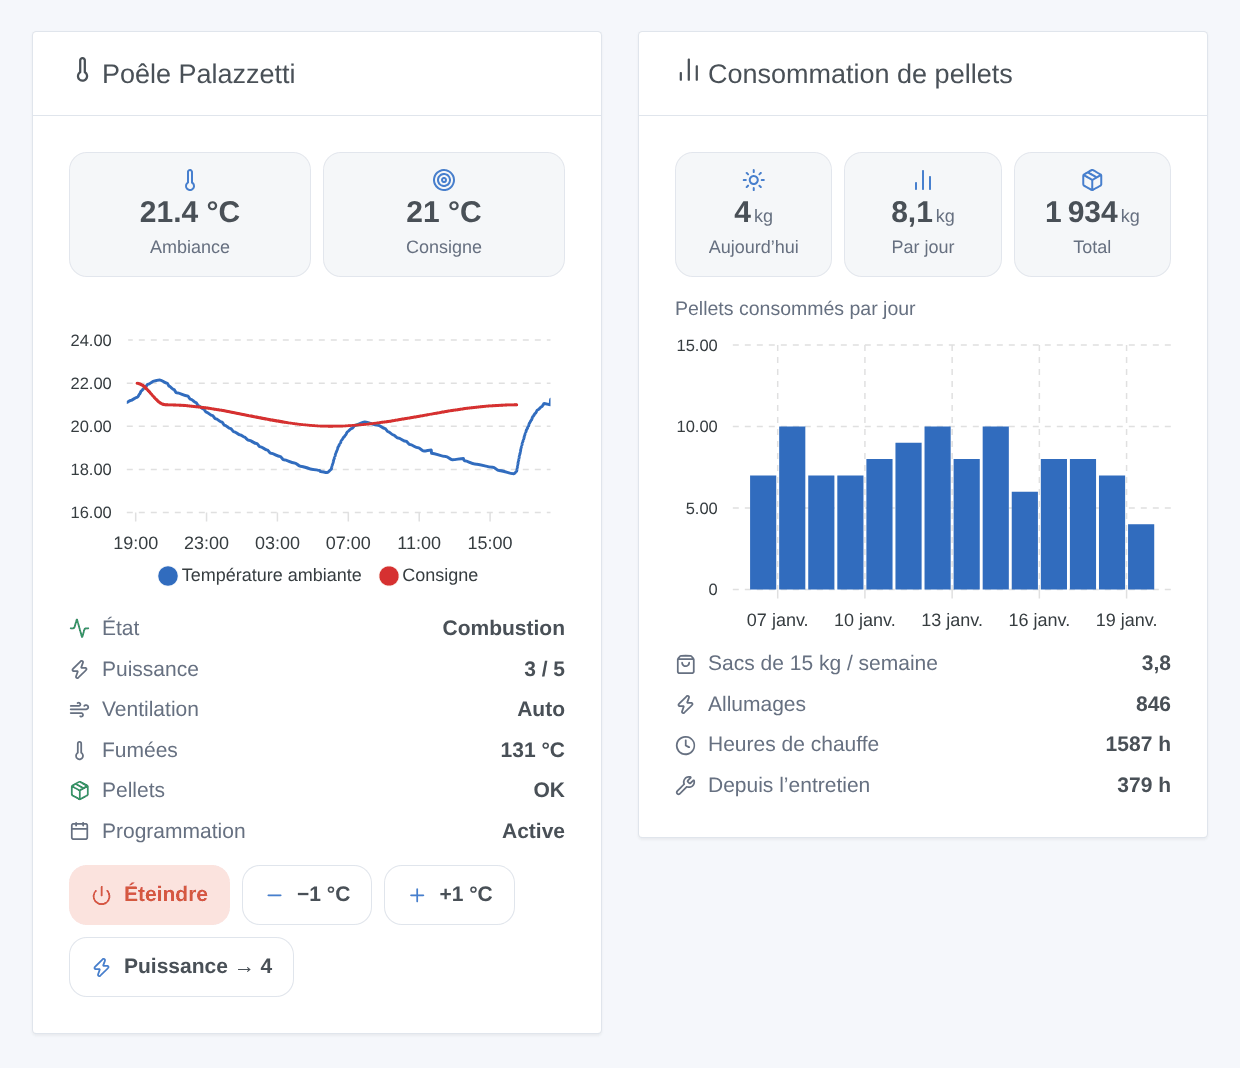
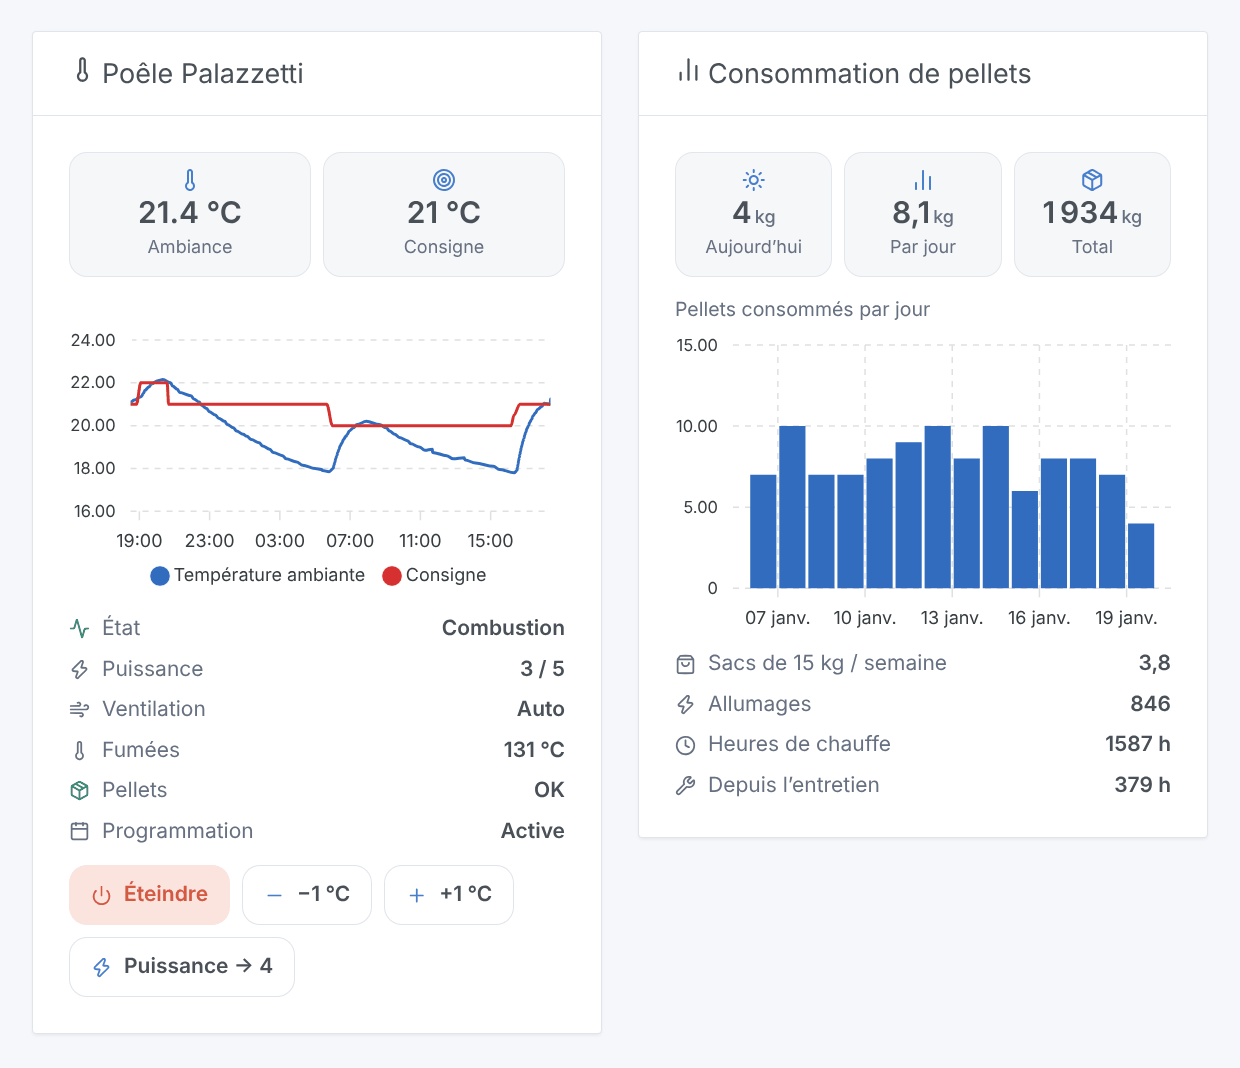
fix: the setpoint curve stays flat between two changes (#1)
Gladys keeps a point per published state and its line chart joins two
points with a straight slope: a setpoint published only on change, a
few times a day, was drawn as hours-long ramps. The setpoint is now
published again every 10 minutes even unchanged, so the line stays
flat. The widget illustrations simulate the same repeats.

Claude-Session: https://claude.ai/code/session_014nWwzxT57Sgjwa28YkMAqx

diff --git a/src/app.js b/src/app.js
@@ -14,7 +14,14 @@ import { logger } from '@gladysassistant/integration-sdk';
 import { INTERNAL_KEYS, normalizeConfig, normalizeLanguage, readLanguage } from './config.js';
 import { createManager } from './manager.js';
 import { createHistoryStore, dailyBurn } from './history.js';
-import { PARAMS, buildDevice, buildStates, idsOf, parseExternalId } from './device.js';
+import {
+  FEATURE_KEYS,
+  PARAMS,
+  buildDevice,
+  buildStates,
+  idsOf,
+  parseExternalId,
+} from './device.js';
 import {
   CommandError,
   clockCommand,
@@ -43,6 +50,10 @@ import { LANGUAGES, all, t, stateLabel, formatTemperature } from './i18n.js';
 const ACTIONS = { TEST_CONNECTION: 'test_connection', SYNC_CLOCK: 'sync_clock' };
 // A widget or a scene action reuses a read while it is this fresh.
 const FRESH_MS = 15000;
+// The setpoint is published again this often, even unchanged: Gladys keeps a
+// point per publication and its line chart joins two points with a straight
+// slope, so a setpoint changed twice a day would draw hours-long ramps.
+const SETPOINT_REPEAT_MS = 10 * 60 * 1000;
 const DATA_DIR = process.env.DATA_DIR || '/data';
 
 /**
@@ -51,6 +62,7 @@ const DATA_DIR = process.env.DATA_DIR || '/data';
  * @param {object} [options] - Dependencies the tests replace.
  * @param {Function} [options.clientFactory] - Builds the client of a box (createClient).
  * @param {string} [options.dataDir] - Where the pellet history is stored.
+ * @param {Function} [options.now] - Date.now, for the tests.
  * @returns {object} `{ manager, history, shutdown }`.
  * @example
  * const app = createApp(new GladysIntegration());
@@ -64,7 +76,8 @@ export function createApp(gladys, options = {}) {
   let createdDevices = new Map();
   // Devices offered on the Discovery screen, by stove id.
   const discovered = new Map();
-  // Last state published per feature, to publish changes only.
+  const now = options.now ?? Date.now;
+  // Last state published per feature (`{ value, at }`), to publish changes only.
   const lastStates = new Map();
   let lastStatus = null;
 
@@ -139,7 +152,8 @@ export function createApp(gladys, options = {}) {
   }
 
   /**
-   * @description Publish the states that changed, for a created device only.
+   * @description Publish the states that changed, and the setpoint every
+   * SETPOINT_REPEAT_MS, for a created device only.
    * @param {object} entry - The manager entry.
    * @returns {Promise<void>}
    */
@@ -147,12 +161,16 @@ export function createApp(gladys, options = {}) {
     if (!createdDevices.has(entry.id) || !entry.stove) {
       return;
     }
+    const setpoint = idsOf(gladys, entry.id).feature(FEATURE_KEYS.SETPOINT);
     const changed = buildStates(gladys, entry.id, entry.stove, language).filter((state) => {
+      const id = state.device_feature_external_id;
       const value = state.text ?? state.state;
-      if (lastStates.get(state.device_feature_external_id) === value) {
+      const last = lastStates.get(id);
+      const repeat = id === setpoint && last && now() - last.at >= SETPOINT_REPEAT_MS;
+      if (last?.value === value && !repeat) {
         return false;
       }
-      lastStates.set(state.device_feature_external_id, value);
+      lastStates.set(id, { value, at: now() });
       return true;
     });
     if (changed.length > 0) {

diff --git a/test/app.test.js b/test/app.test.js
@@ -60,10 +60,10 @@ const settle = (ms = 100) => new Promise((resolve) => setTimeout(resolve, ms));
 /**
  * A connected fake Gladys running the integration, its box found by the scan.
  * @param {object} t - The test context: the app stops when the test ends.
- * @param {object} [options] - `devices` the user created.
+ * @param {object} [options] - `devices` the user created, `now` the clock.
  * @returns {Promise<object>} `{ gladys, box, app }`.
  */
-async function start(t, { devices = [] } = {}) {
+async function start(t, { devices = [], now } = {}) {
   const dataDir = mkdtempSync(join(tmpdir(), 'palazzetti-'));
   const gladys = createFakeGladys({
     selector: 'ext-palazzetti',
@@ -81,7 +81,7 @@ async function start(t, { devices = [] } = {}) {
     },
   });
   const box = new FakeBox();
-  const app = createApp(gladys, { clientFactory: box.factory(), dataDir });
+  const app = createApp(gladys, { clientFactory: box.factory(), dataDir, now });
   await gladys.connect();
   await settle();
   t.after(async () => {
@@ -118,6 +118,28 @@ test('a device created by the user receives every state, and the widgets refresh
   assert.equal(gladys.fake.lastState(`${DEVICE_ID}:setpoint`), GINGER_ALLS.SETP);
   assert.ok(gladys.fake.widgetRefreshes.includes('stove'), 'stove widget refreshed');
   assert.ok(gladys.fake.widgetRefreshes.includes('consumption'), 'consumption widget refreshed');
+});
+
+test('the setpoint is published again every 10 minutes, the other states on change only', async (t) => {
+  let clock = Date.now();
+  const { gladys, app } = await start(t, { now: () => clock });
+  const device = createdDevice(gladys);
+  gladys.fake.devices.push(device);
+  await gladys.fake.deviceCreated(device);
+  await settle();
+  const count = (feature) =>
+    gladys.fake.states.filter(
+      (state) => state.device_feature_external_id === `${DEVICE_ID}:${feature}`,
+    ).length;
+  const before = { setpoint: count('setpoint'), power: count('power') };
+  clock += 9 * 60 * 1000;
+  await app.manager.round();
+  assert.equal(count('setpoint'), before.setpoint, 'nothing before 10 minutes');
+  clock += 60 * 1000;
+  await app.manager.round();
+  assert.equal(count('setpoint'), before.setpoint + 1);
+  assert.equal(gladys.fake.lastState(`${DEVICE_ID}:setpoint`), GINGER_ALLS.SETP);
+  assert.equal(count('power'), before.power, 'an unchanged power is not repeated');
 });
 
 test('a setpoint from Gladys reaches the box', async (t) => {

diff --git a/CLAUDE.md b/CLAUDE.md
@@ -78,7 +78,10 @@ docs/illustrations/           render.sh + gen.mjs + render.js: generated widget 
   An answer is a success only when `SUCCESS` is true and `INFO.RSP` is `OK`.
   Commands are absolute values (retried once safely), never relative.
 - **States**: only the ones that changed since the last publication
-  (`publishStates` in `app.js`); a device created receives every state.
+  (`publishStates` in `app.js`); a device created receives every state. One
+  exception: the setpoint is published again every 10 minutes even unchanged
+  (`SETPOINT_REPEAT_MS`), so the line chart of the `stove` widget draws it
+  flat between two changes instead of a slow ramp.
 - **Scene events** on transitions between two reads only (`events.js`), flat
   scalar data limited to the declared variables, never caused by an action:
   a command or a scene action fires nothing by itself, the next read does.
